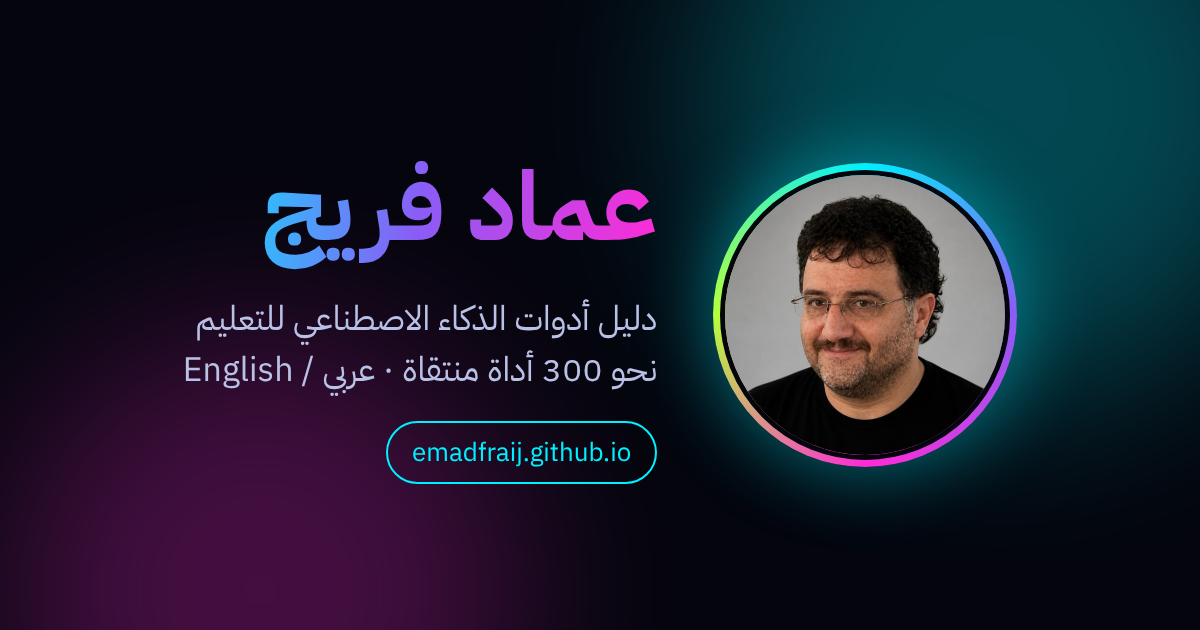
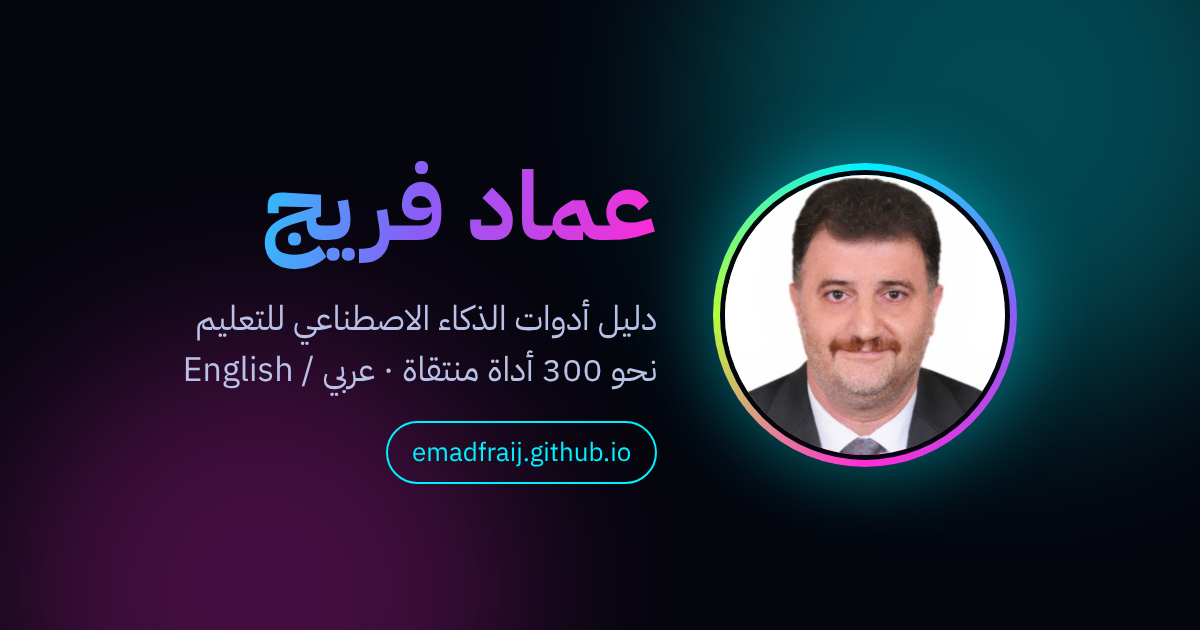
Add files via upload

Changed region(s): [[0.5858, 0.2714, 0.8633, 0.7238]]

diff --git a/data.js b/data.js
@@ -15,7 +15,7 @@ window.SITE = {
   intro_en: "A curated directory of the AI tools I recommend to researchers, test developers and teachers.",
   updated: "2026-10-12",
   /* صورتك في أعلى الصفحة: ملف الصورة يكون بجانب index.html */
-  photo: "photo.jpg",
+  photo: "photo-formal.jpg",
   /* صورة قسم «من أنا» (اختيارية) */
   photo2: "photo-cartoon.jpg",
   about: "متخصص أول في التقييمات الدولية بوزارة التربية والتعليم الإماراتية، أعمل على دراسات PISA وTIMSS وPIRLS وTALIS وIELS. بدأت معلماً للعلوم، ثم مديراً للمشاريع في ACER، وأكثر من 25 عاماً في التعليم والتقييم. أصنع محتوى يساعد المعلمين على توظيف الذكاء الاصطناعي بوعي وفاعلية.",
